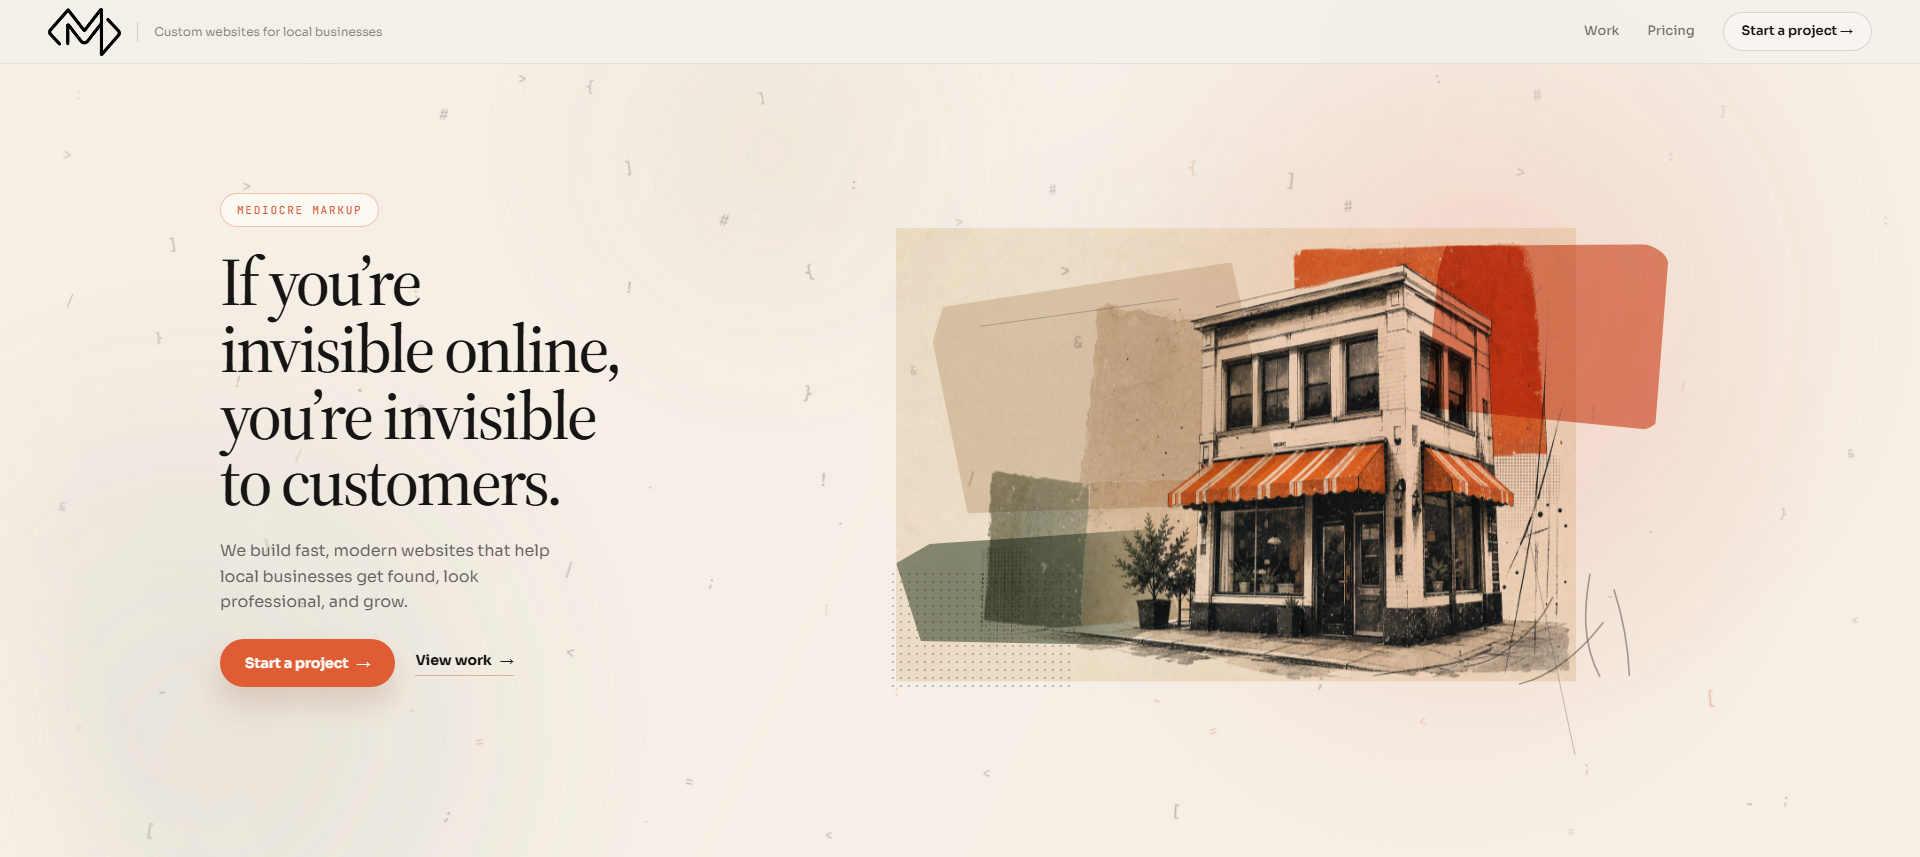
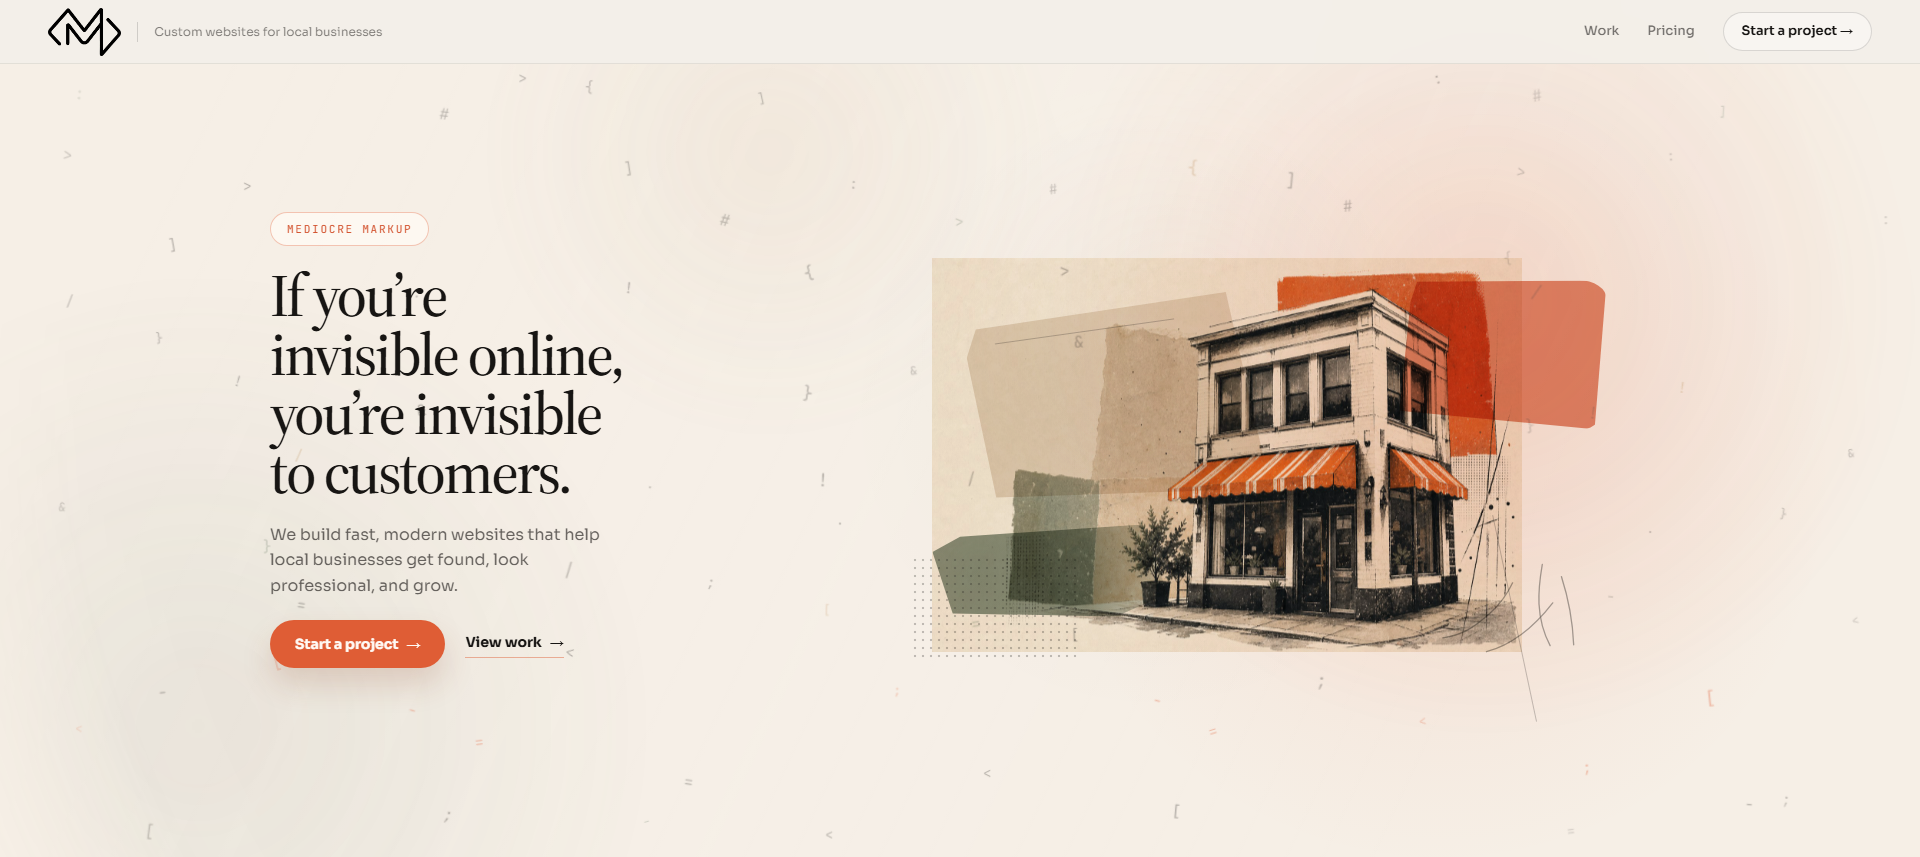
another scaling fix

diff --git a/index.html b/index.html
@@ -7840,64 +7840,64 @@
     /* Wide-but-short desktop viewports need a calmer scale than tall previews. */
     @media (min-width: 1500px) and (max-height: 920px) {
       .hero.hero-blueprint {
-        padding-top: clamp(96px, 11vh, 112px);
-        padding-bottom: clamp(40px, 5vh, 58px);
+        padding-top: clamp(88px, 10vh, 102px);
+        padding-bottom: clamp(34px, 4vh, 48px);
       }
 
       .hero-blueprint-shell {
-        width: min(100%, 1480px);
-        grid-template-columns: minmax(360px, 0.82fr) minmax(620px, 1.18fr);
-        gap: clamp(42px, 4vw, 84px);
+        width: min(100%, 1380px);
+        grid-template-columns: minmax(340px, 0.78fr) minmax(560px, 1.08fr);
+        gap: clamp(48px, 4.2vw, 90px);
       }
 
       .hero-copy {
-        gap: 22px;
+        gap: 20px;
       }
 
       .hero-title {
-        font-size: clamp(50px, 4vw, 68px);
+        font-size: clamp(44px, 3.45vw, 60px);
         line-height: 0.98;
       }
 
       .hero-lede {
         max-width: 30ch;
-        font-size: clamp(15px, 1vw, 16px);
+        font-size: clamp(14px, 0.92vw, 16px);
       }
 
       .hero-artwork {
-        min-height: min(64svh, 600px);
+        min-height: min(56svh, 520px);
       }
 
       .hero-building {
-        width: min(680px, 94%);
+        width: min(590px, 88%);
       }
 
       .art-swatch.one {
-        left: 8%;
-        top: 17%;
-        width: 40%;
-        height: 44%;
+        left: 10%;
+        top: 18%;
+        width: 38%;
+        height: 41%;
       }
 
       .art-swatch.two {
-        right: 4%;
-        top: 11%;
-        width: 29%;
-        height: 34%;
+        right: 6%;
+        top: 13%;
+        width: 27%;
+        height: 31%;
       }
 
       .art-swatch.three {
-        left: 3%;
-        bottom: 15%;
-        width: 34%;
-        height: 21%;
+        left: 5%;
+        bottom: 16%;
+        width: 31%;
+        height: 19%;
       }
 
       .art-scribble {
-        right: 2%;
-        bottom: 7%;
-        width: 30%;
-        height: 22%;
+        right: 4%;
+        bottom: 8%;
+        width: 27%;
+        height: 20%;
       }
     }
 
